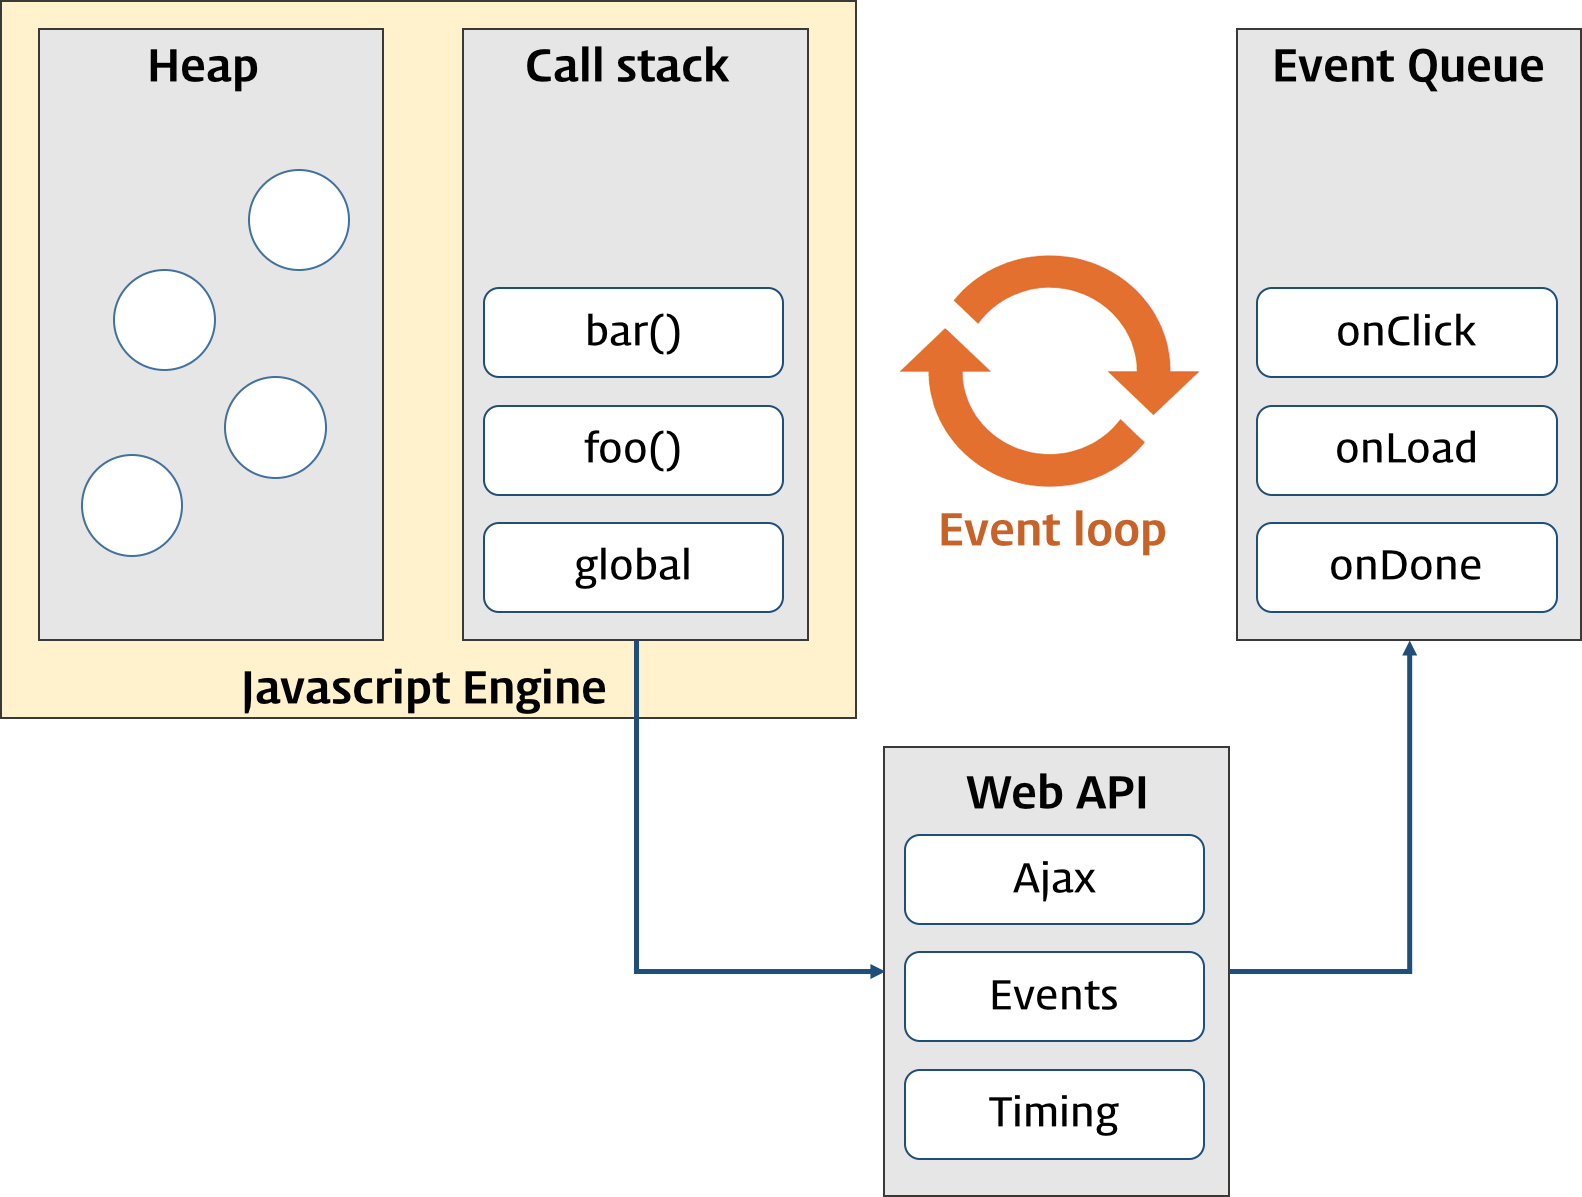
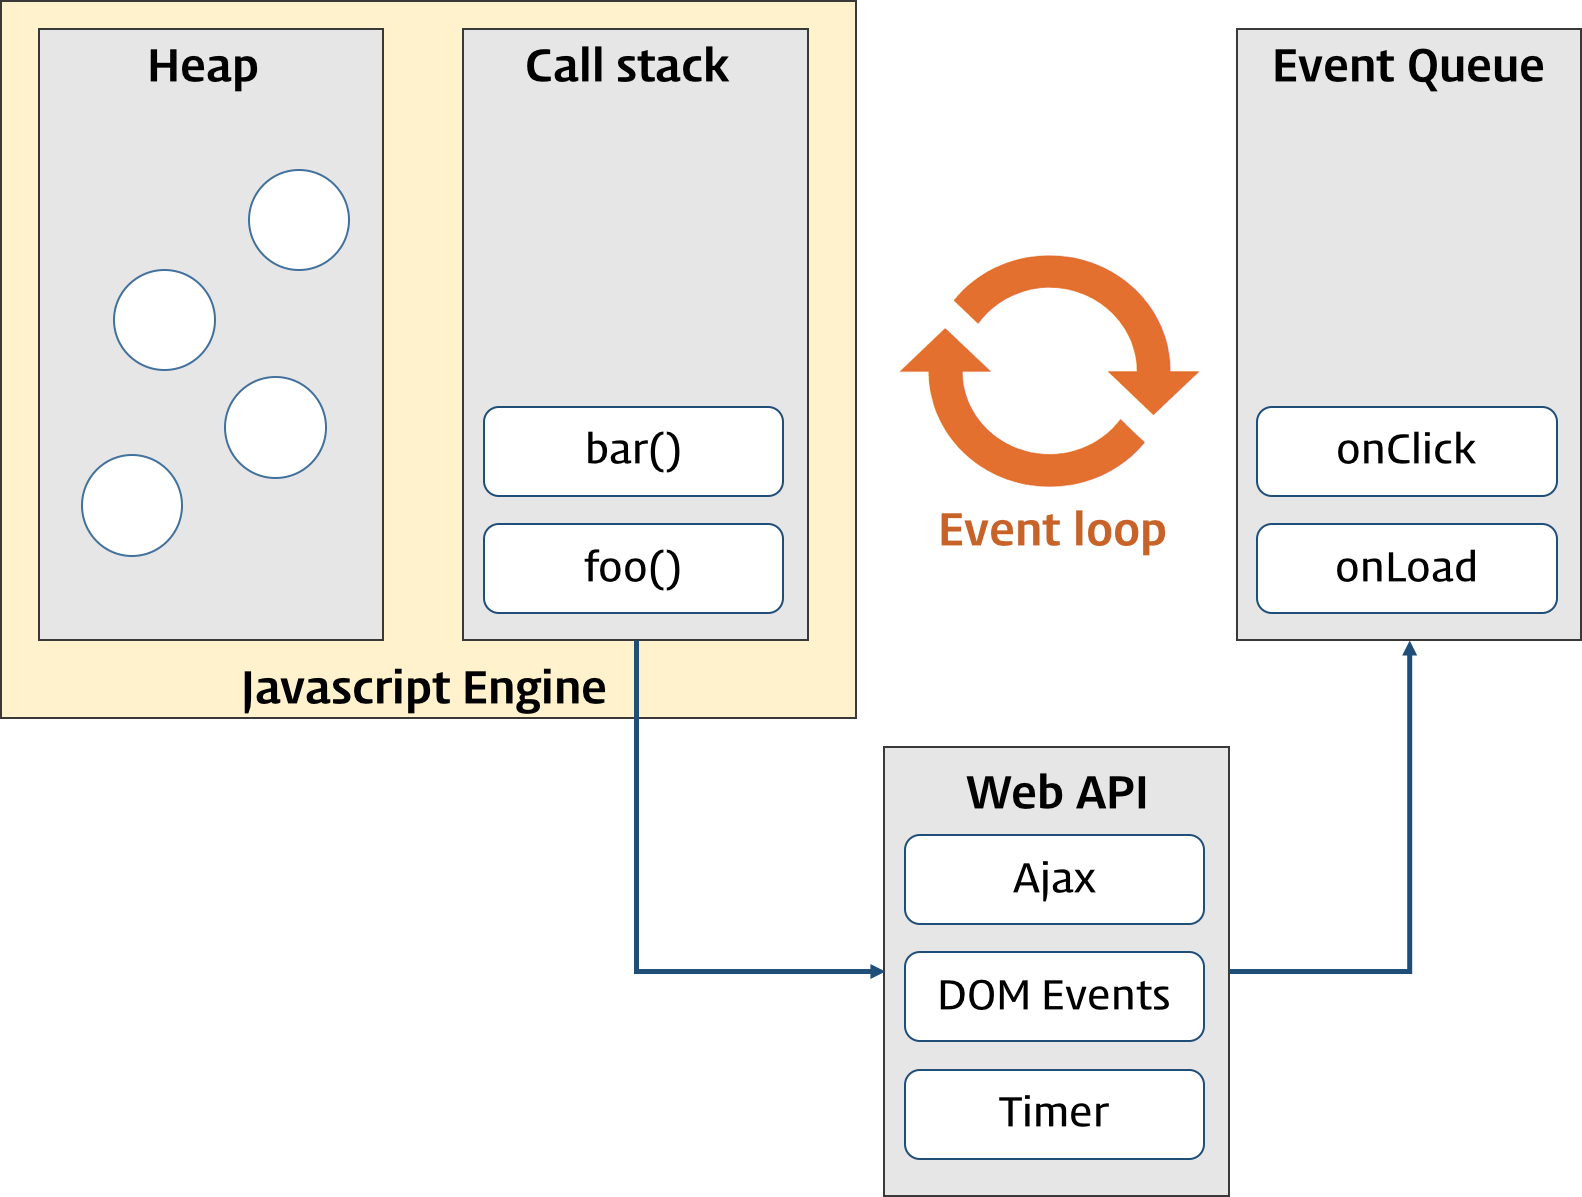
updated

diff --git a/_posts/2016-05-24-js-event.md b/_posts/2016-05-24-js-event.md
@@ -92,6 +92,35 @@ func1();
 이벤트 루프(Event Loop)에 의한 setTimeout 핸들러의 실행
 {: .desc-img}
 
+DOM 이벤트도 이와 같이 동작한다. 
+
+```javascript
+function func1() {
+  console.log('func1');
+  func2();
+}
+
+function func2() {
+  // <button id="foo">foo</button>
+  var elem = document.getElementById('foo');
+
+  elem.addEventListener('click', function () {
+    this.style.backgroundColor = 'indigo';
+    console.log('func2');
+  });
+
+  func3();
+}
+
+function func3() {
+  console.log('func3');
+}
+
+func1();
+``` 
+
+함수 func1이 호출되면 함수 func1은 Call Stack에 쌓인다. 그리고 함수 func1은 함수 func2을 호출하므로 함수 func2가 Call Stack에 쌓이고 addEventListener가 호출된다. <strong>addEventListener의 콜백함수 changeColor는 foo 버튼이 클릭되어 "onclick" 이벤트가 발생하면 이벤트 큐로 이동한 후 Call Stack이 비어졌을 때 Call Stack으로 이동되어 실행된다.</strong>
+
 # 3. 이벤트의 종류
 
 대표적인 이벤트를 소개한다. 자세한 사항은 [Event reference](https://developer.mozilla.org/en-US/docs/Web/Events)을 참조 바란다.
